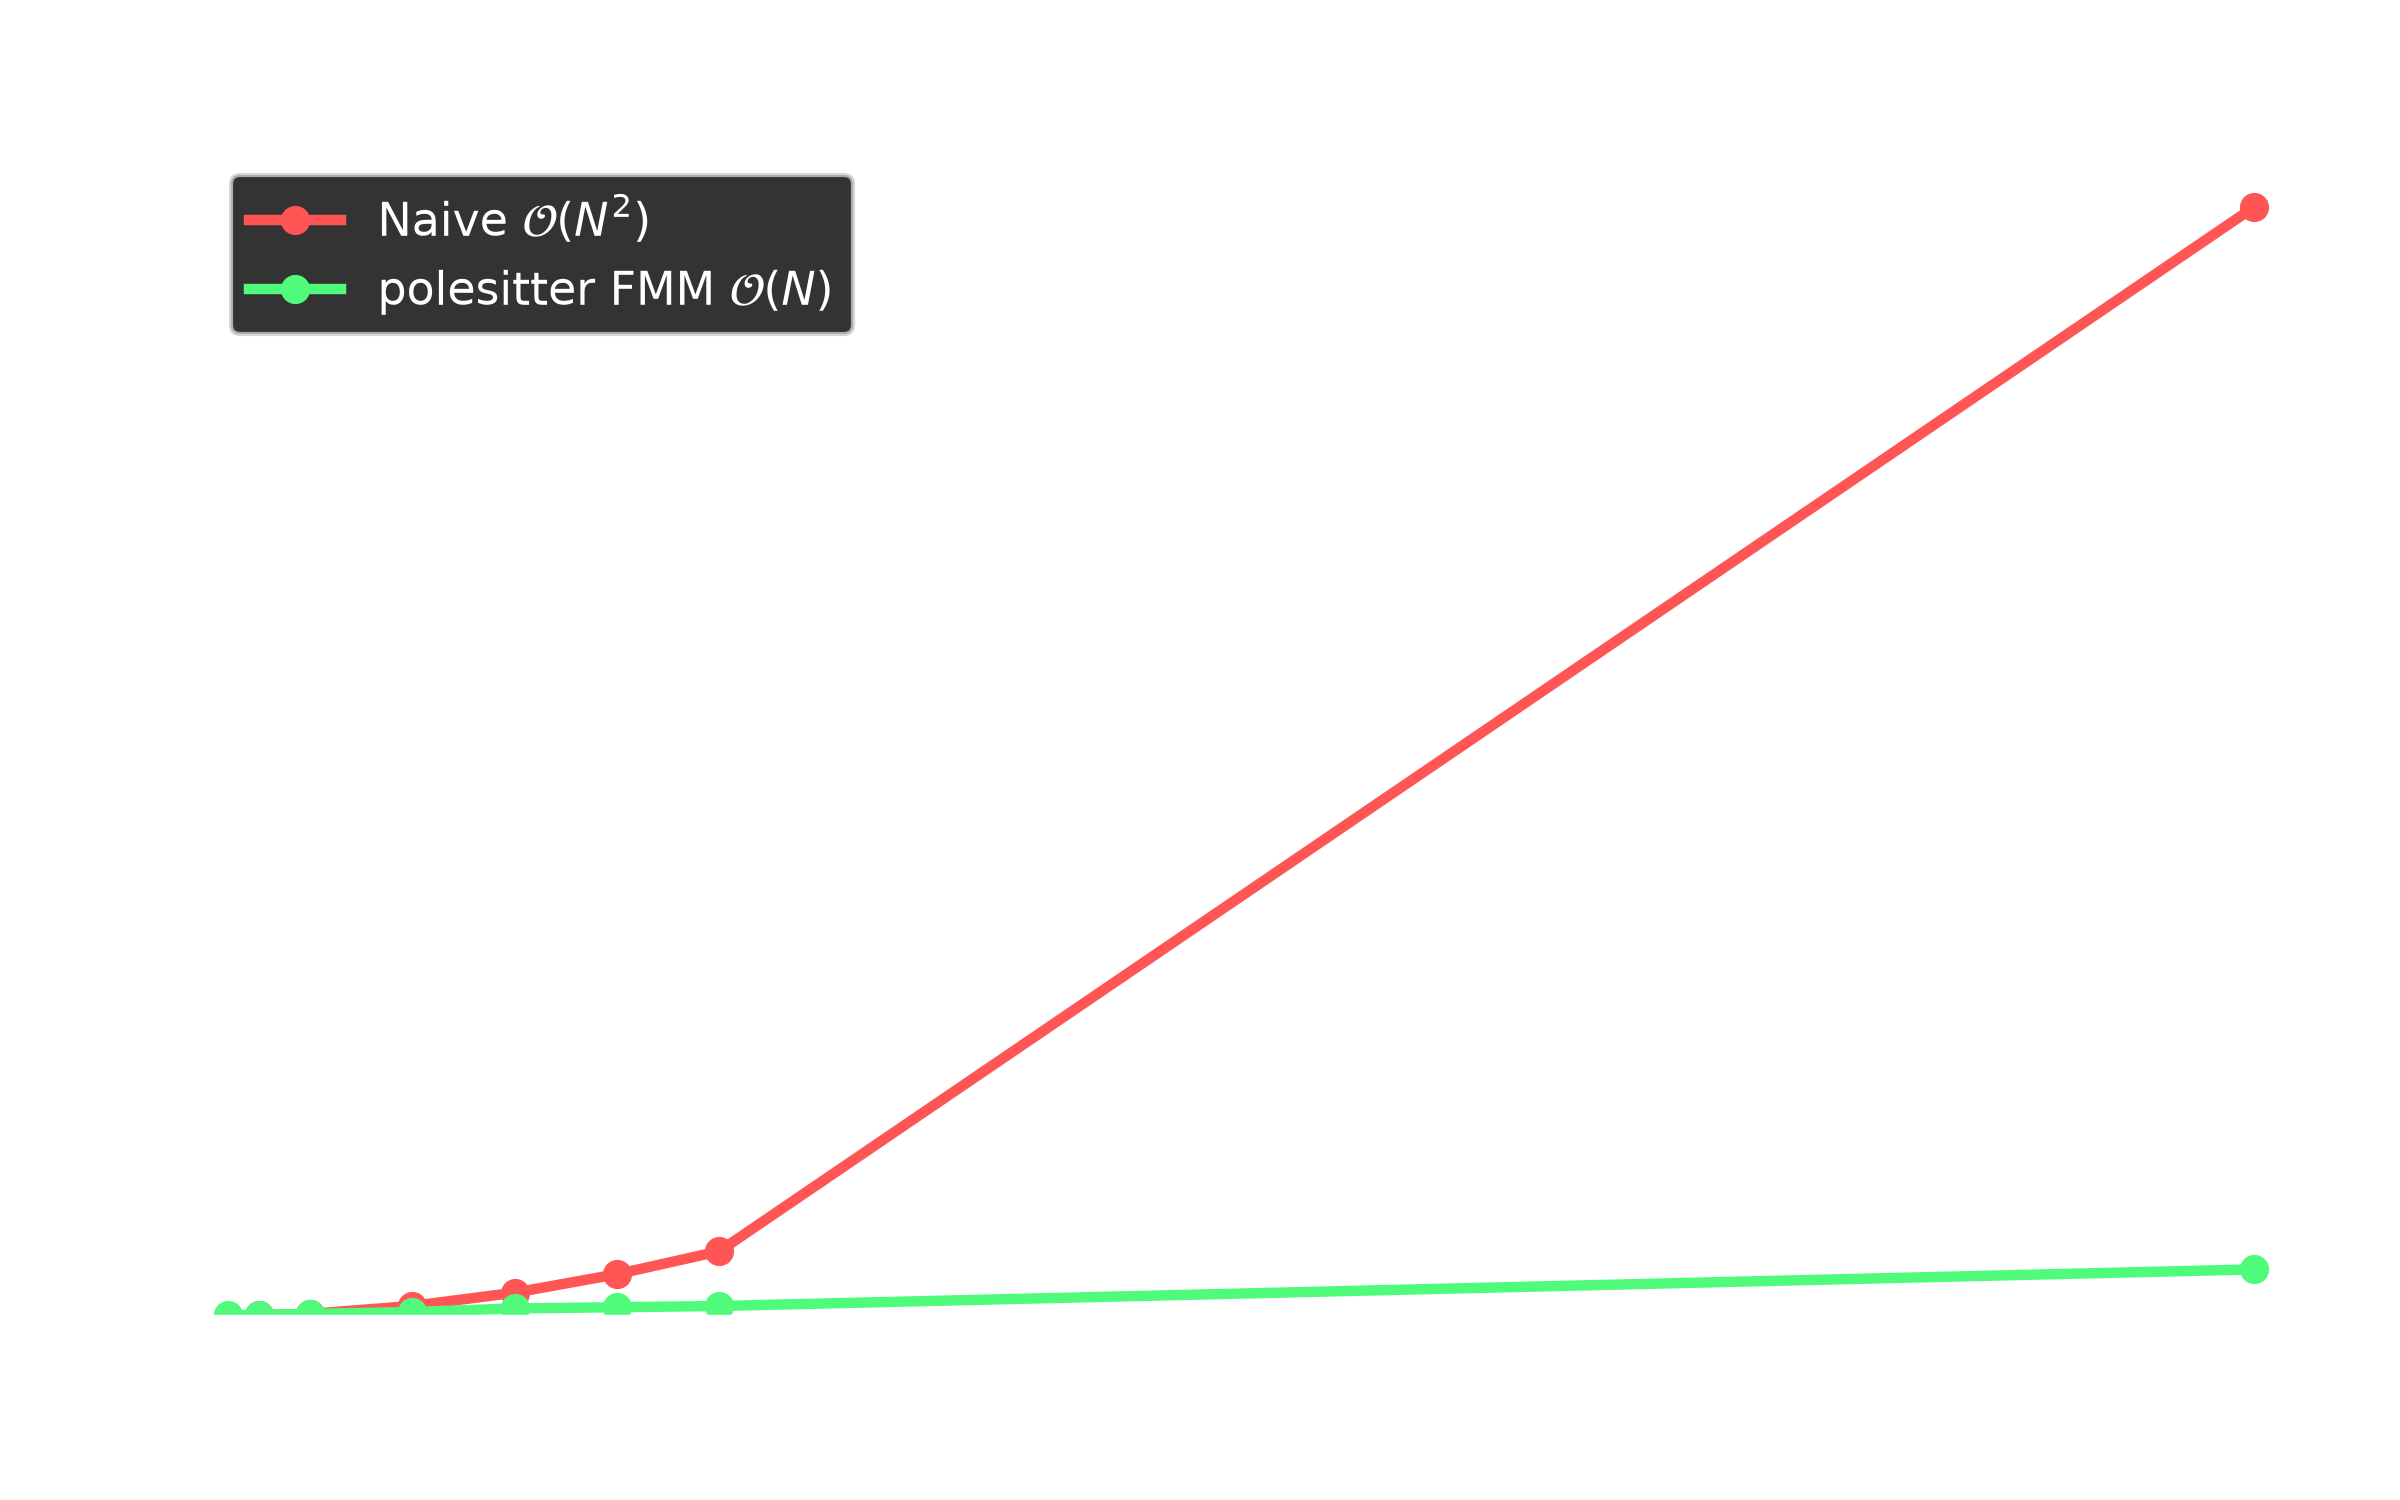
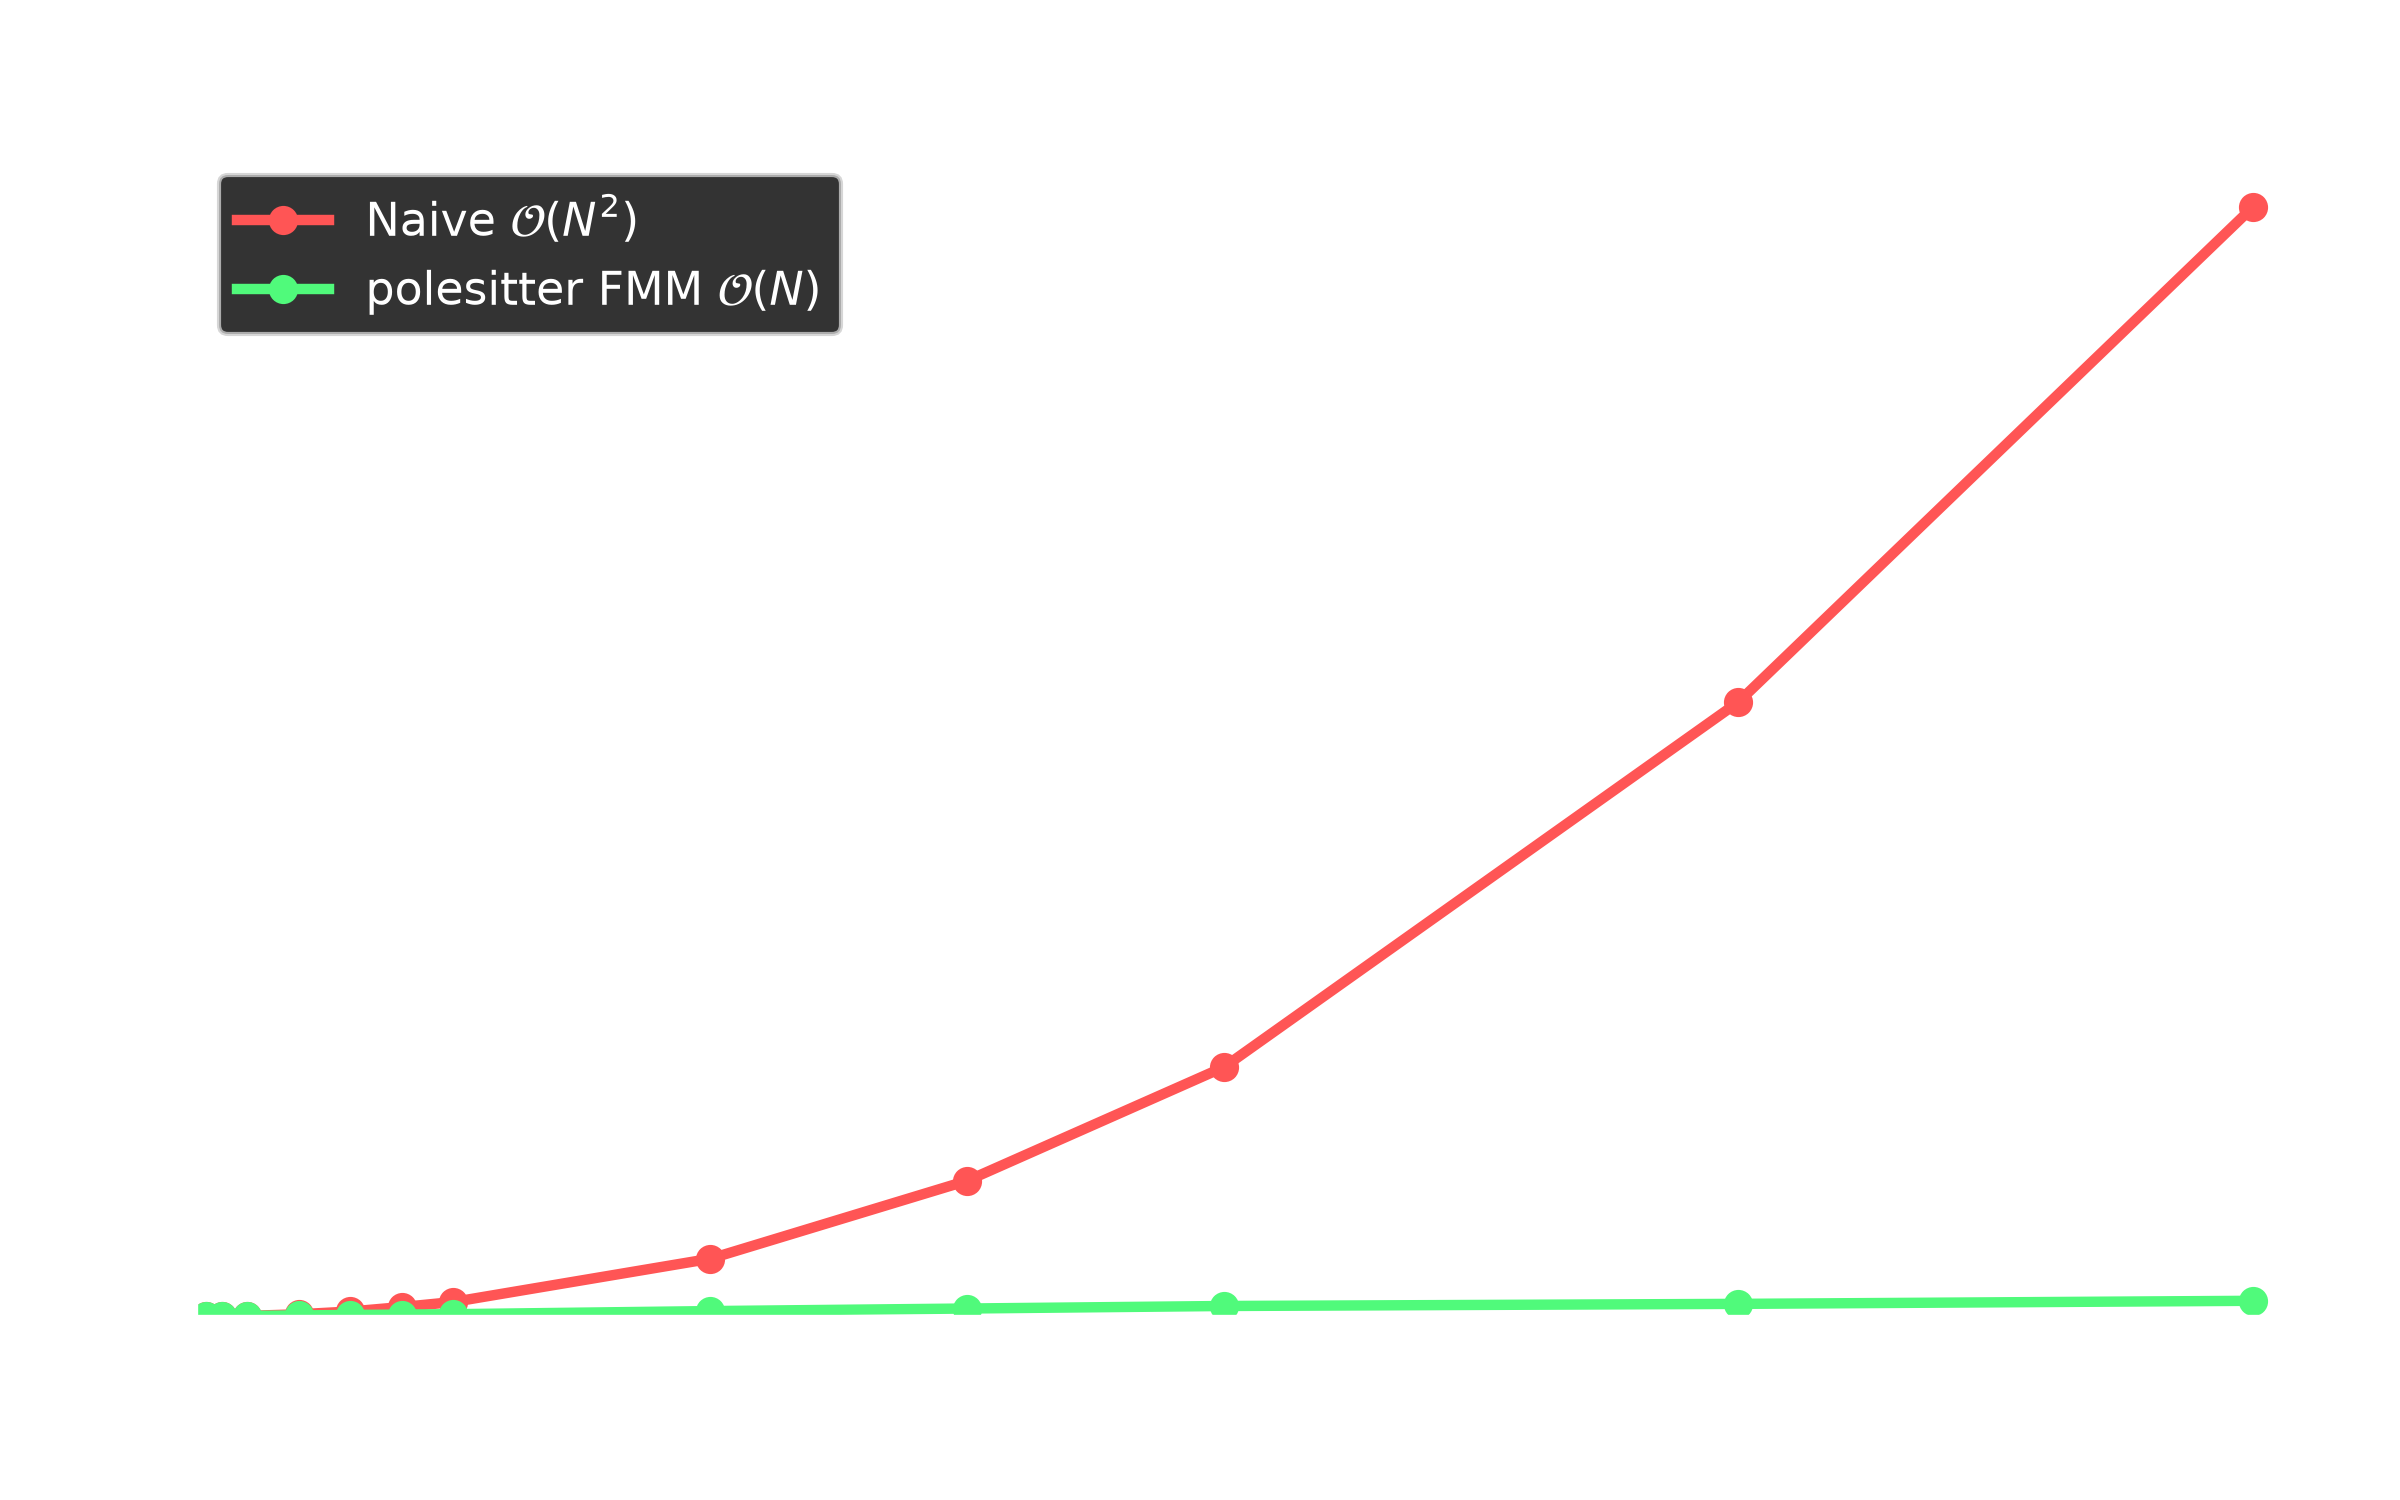
feat: add more values to benchmark graph

diff --git a/tests/benchmark.c b/tests/benchmark.c
@@ -52,7 +52,8 @@ void direct_nbody_baseline(const ps_particle_arrs_t* arrs) {
 }
 
 int main(void) {
-    int test_sizes[] = {1000, 2500, 5000, 10000, 15000, 20000, 25000, 100000};
+    int test_sizes[] = {1000,  2500,  5000,  10000,  15000,  20000,
+                        25000, 50000, 75000, 100000, 150000, 200000};
     int num_tests    = sizeof(test_sizes) / sizeof(test_sizes[0]);
 
     printf("N,Direct_Time,FMM_Time\n");
